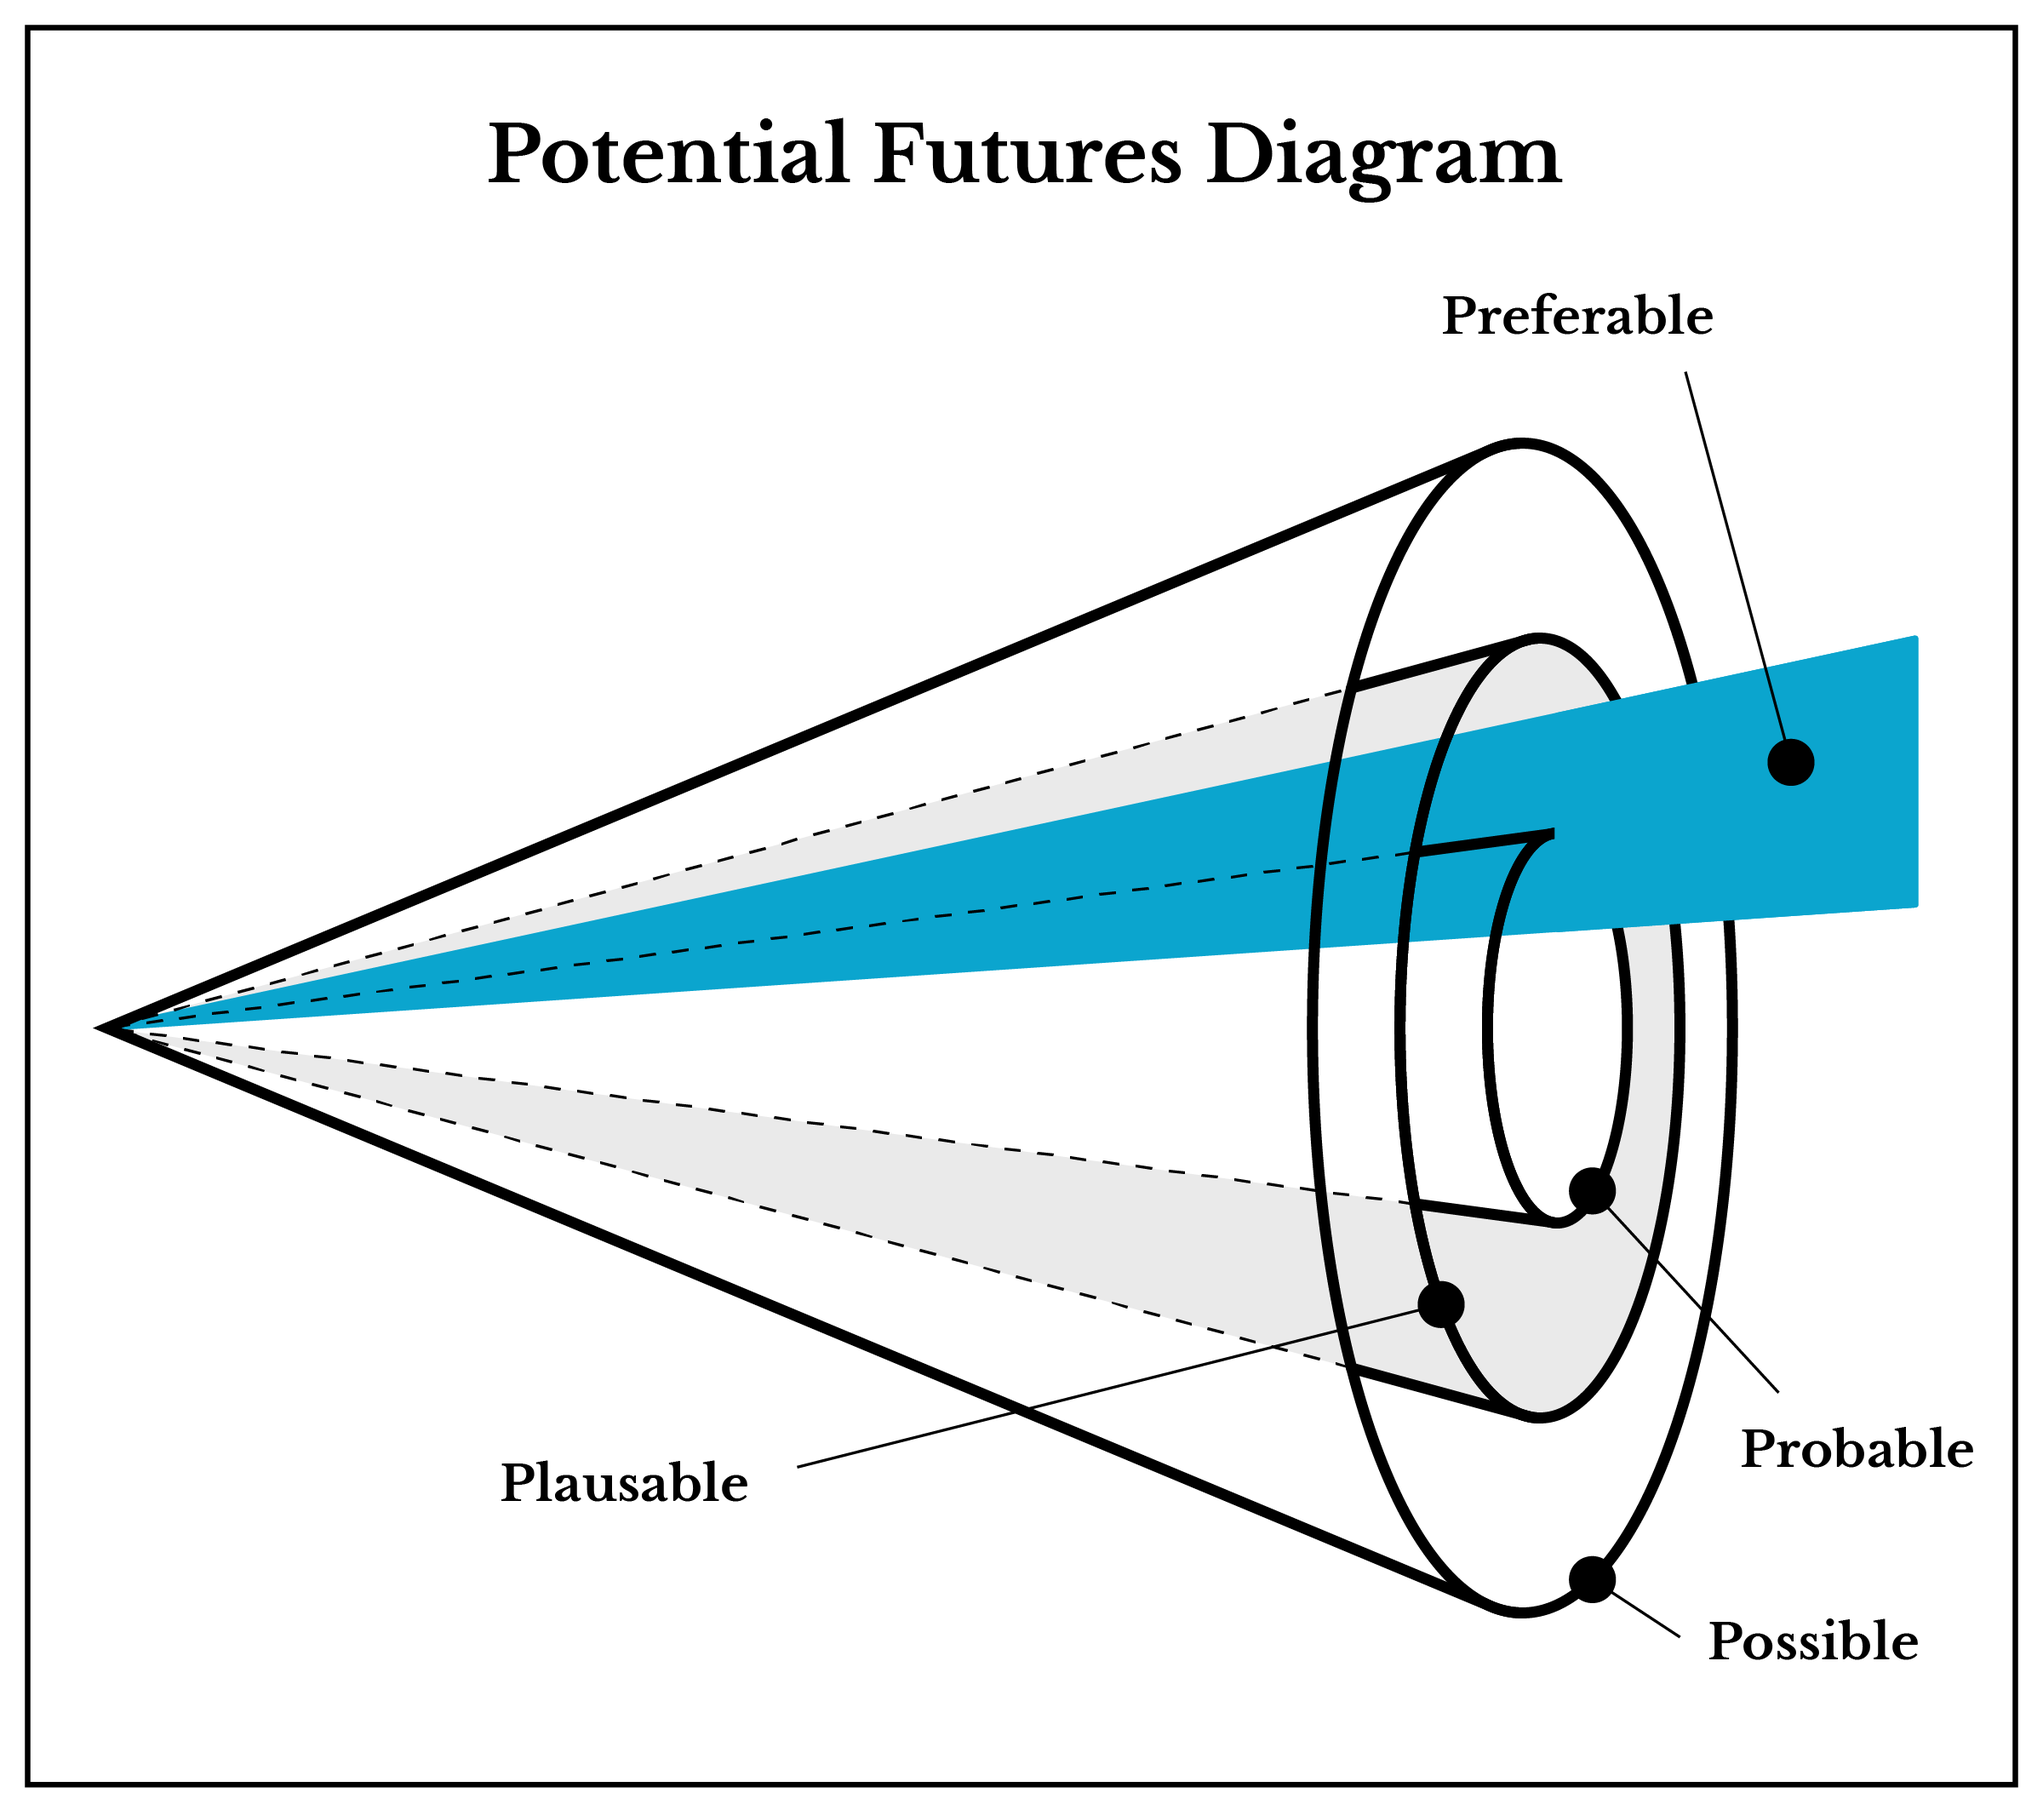
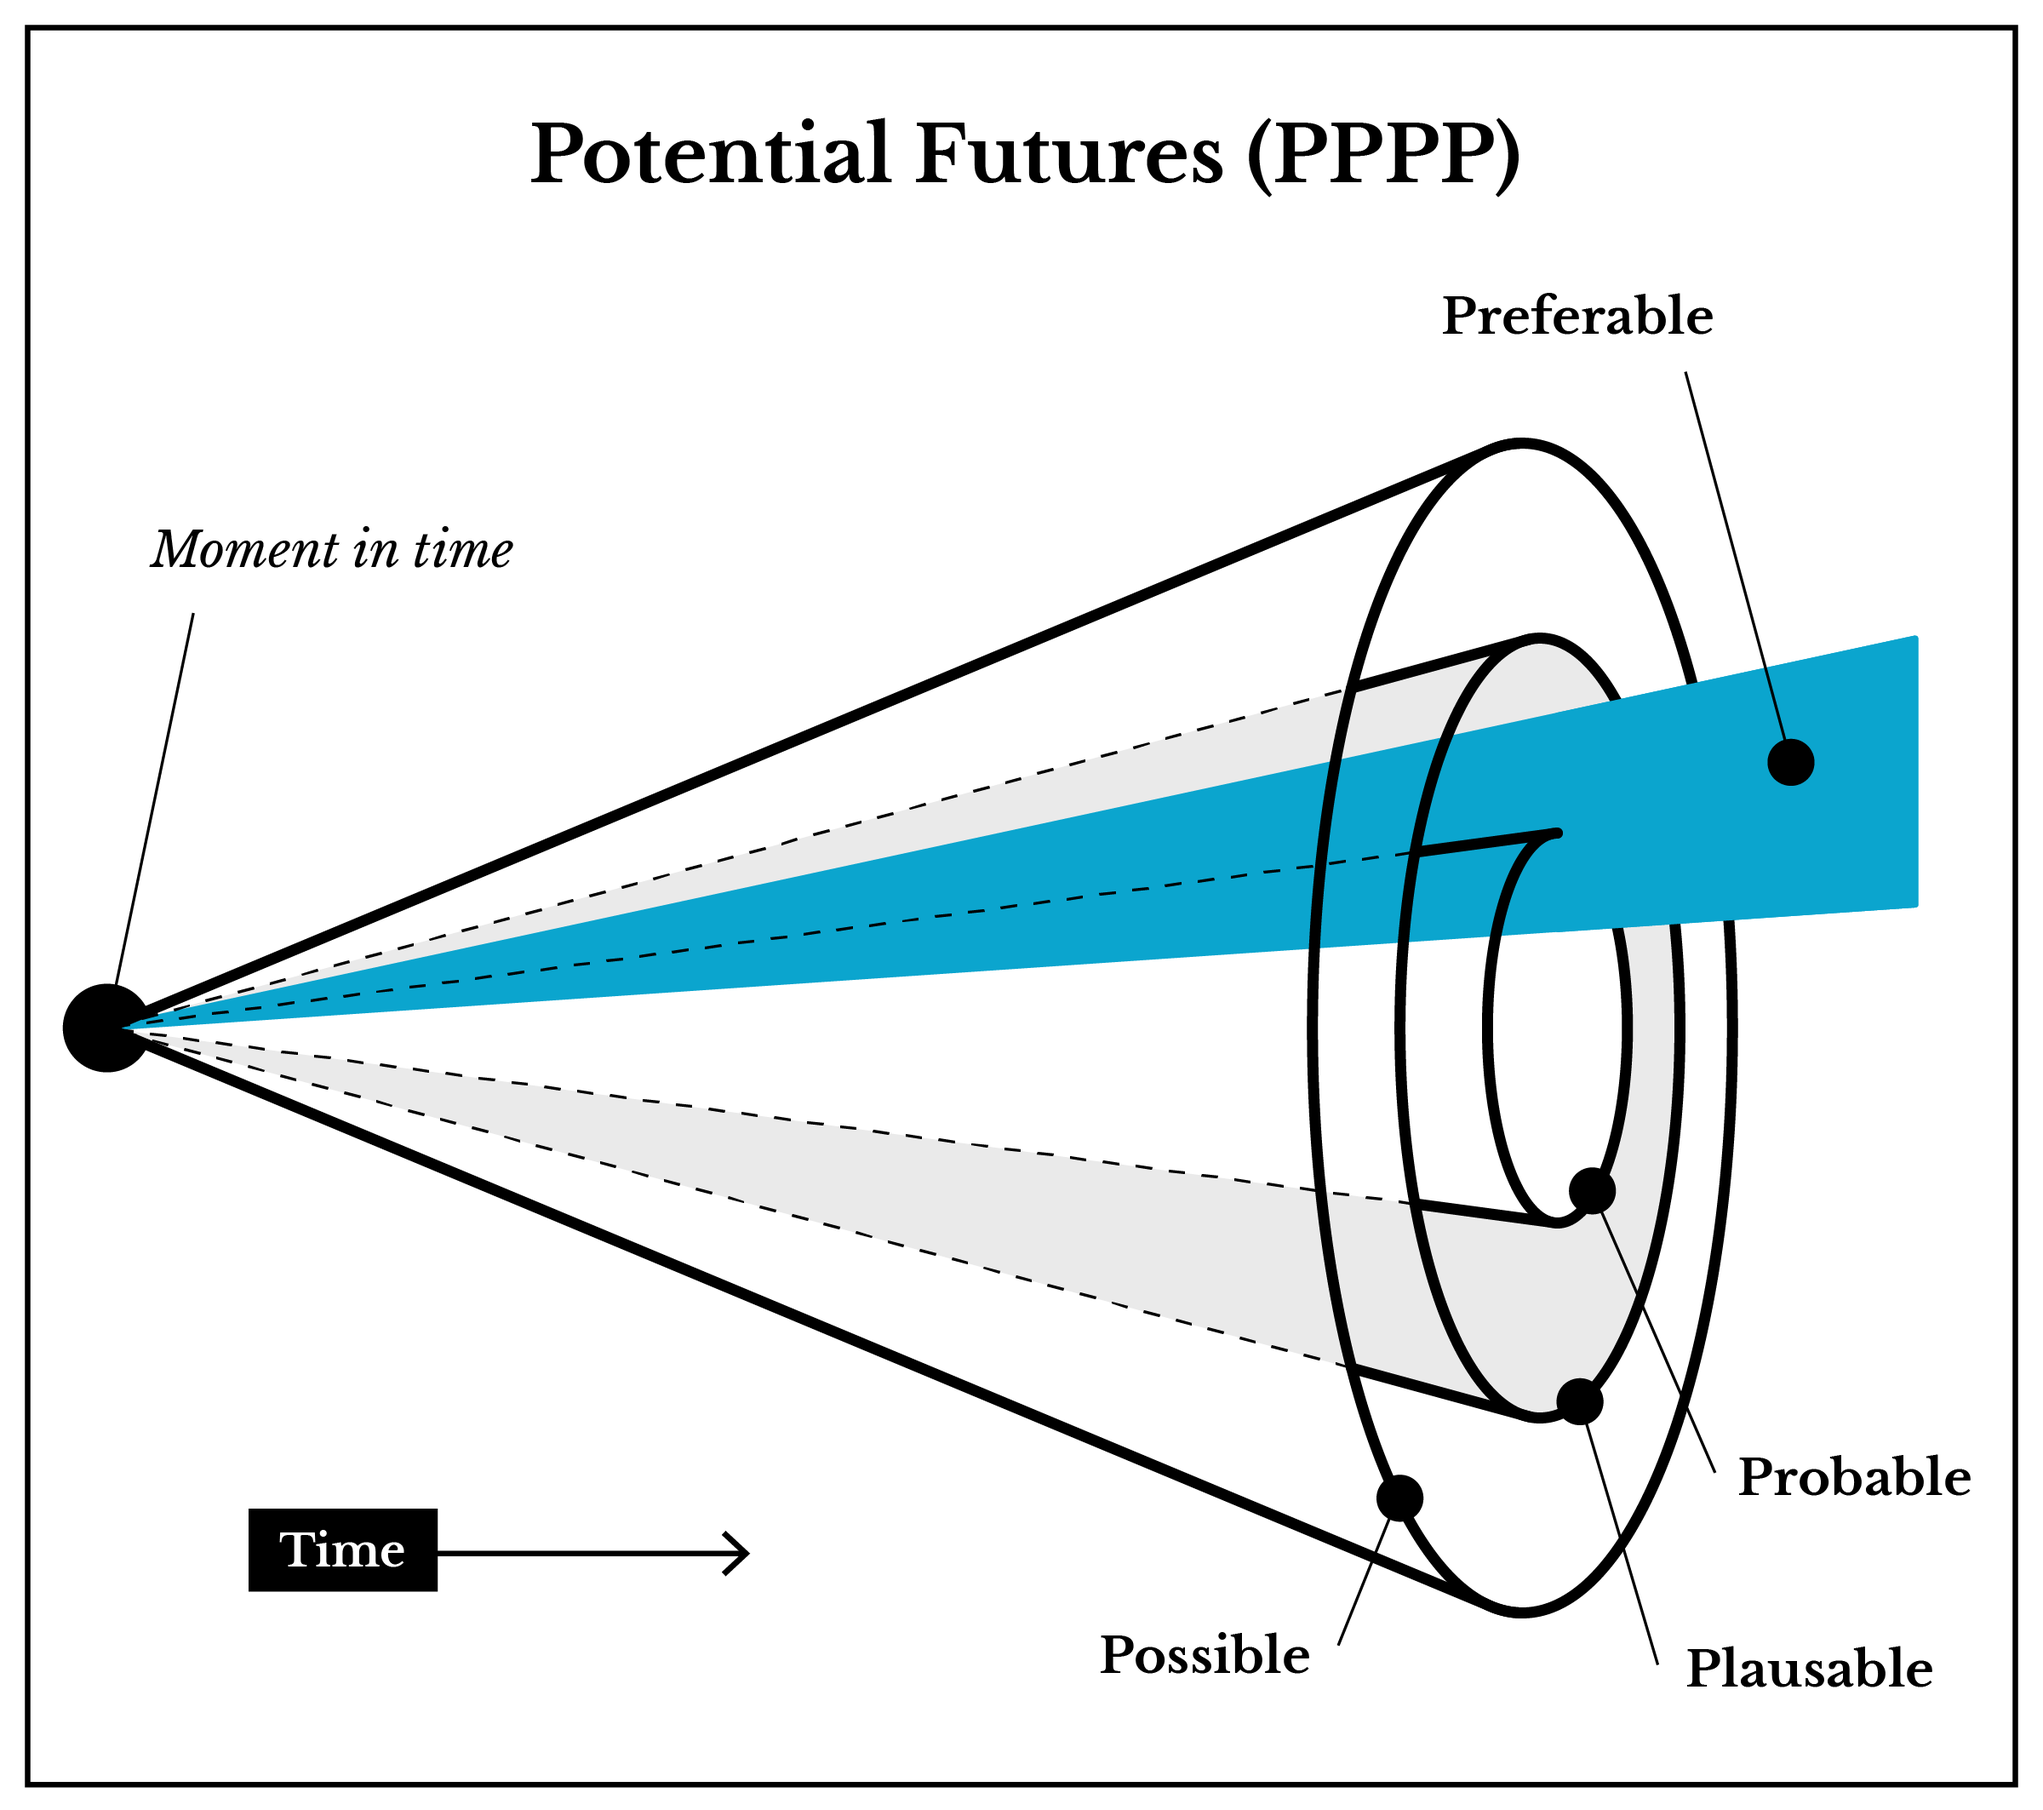
Updates topics/discursive_design.md
Auto commit by GitBook Editor

diff --git a/topics/discursive_design.md b/topics/discursive_design.md
@@ -12,17 +12,15 @@ If discursive design is "design as thought catalyst" then, speculative design is
 
 ### Potential Futures and the Theory of Change
 
-Because speculative design is concerned about the future, it is helpful for us to consider something called the **Theory of Change**, which can help you map outcomes and causalities. The "Three 'Laws' of Futures," as outlined by Joseph Voros, states that **\(1\) the future is not  predetermined**, **\(2\) the future is not predictable**, and **\(3\) the future outcomes can be influenced by our choices in the present**. Voros' publication,[ A Primer on Futures Studies, Foresight and the Use of Scenarios](http://thinkingfutures.net/wp-content/uploads/2010/10/A_Primer_on_Futures_Studies1.pdf) is well worth a read-through, and will better describe the logic behind these "laws." Essentially they point to the idea that each present moment is the culmination of past choices, and therefore, future outcomes can be regarded as something to steward with thoughtful intent. It's contributing logic behind the importance of being responsible for your actions.
+Because speculative design is concerned about the future, it is helpful for us to consider something called the **Theory of Change**, which can help you map outcomes and causalities. Theory of change is concerned with figuring out what choices can to be made in order to achieve positive future outcomes. Let's consider The "Three 'Laws' of Futures," as outlined by Joseph Voros, states that **\(1\) the future is not  predetermined**, **\(2\) the future is not predictable**, and **\(3\) the future outcomes can be influenced by our choices in the present**. Voros' publication,[ A Primer on Futures Studies, Foresight and the Use of Scenarios](http://thinkingfutures.net/wp-content/uploads/2010/10/A_Primer_on_Futures_Studies1.pdf) is well worth a read-through, and will better describe the logic behind these "laws." Essentially they point to the idea that each present moment is the culmination of past choices, and therefore, future outcomes can be regarded as something to steward with thoughtful intent. It's contributing logic behind the importance of being responsible for your actions.
 
 The the four classes of potential futures include **P**robable, **P**lausible, **P**ossible, and **P**referable \(referred to as **PPPP**\). In future design, _preferable_ outcomes are located within the realm of _probable_ and _plausible_. Most likely, it is less useful to imagine outside of _possible_. Possible in this case would be something like a square shaped circle—that is not possible and working such a thing into a work that supposes the potential future of reality may not be very helpful or useful.
 
 #### ![](/assets/pppp-cones-1200w@2x.png)
 
-Theory of change is therefore concerned with figuring out what choices can to be made in order to achieve positive future outcomes.
+#### Applying Theory of Change:
 
 > Theory of change is a rigorous yet participatory process whereby groups and stakeholders in a planning process articulate their long-term goals and identify the conditions they believe have to unfold for those goals to be met. These conditions are modeled as desired outcomes, arranged graphically in a causal framework. \[6\]
-
-#### Mapping a Theory of Change problem:
 
 If you look carefully at this list, you an also simultaneously locate a place for each step within the Double Diamond design process used throughout this course, further illustrating it's compatibility with other design processes. I've adapted this list from [Theory of Change Basics: A Primer on Theory of Change](http://www.theoryofchange.org/wp-content/uploads/toco_library/pdf/ToCBasics.pdf) by Taplin and Clark.
 
@@ -34,7 +32,7 @@ If you look carefully at this list, you an also simultaneously locate a place fo
 6. Quality review should answer three basic questions: Is your theory 1\) plausible, 2\) “doable” \(or feasible\), and 3\) testable?
 7. Produce a narrative to communicate the logic of your initiative.
 
-You can start to see where those steps, particularly in step 6, begin to line up within the PPPP model \(described by Voros\). 
+You can start to see where those steps, particularly in step 6, begin to line up within the PPPP model \(described by Voros\).
 
 # Citation
 
